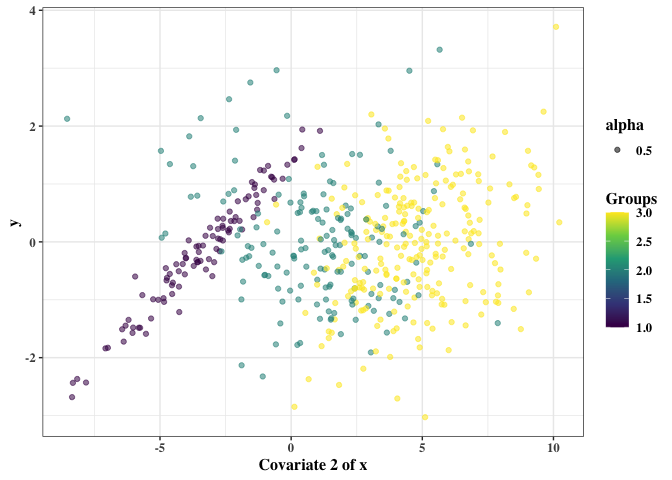
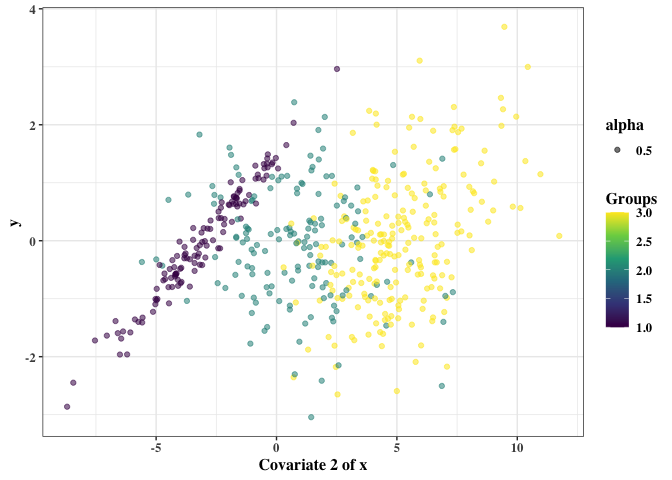
v4

diff --git a/README.md b/README.md
@@ -78,15 +78,15 @@ set.seed(2025)
 
 # ----Simulate data----
 n <- 500   # total samples
-p <- 3     # number of covariates
+p <- 6     # number of covariates
 G <- 3     # number of mixture components
 rho = 0.2  # correlation
 
 # ----True parameters for 3 clusters----
 betas <- matrix(c(
-  1,  2, -1,  0.5,   # component 1
-  5, -2,  1,  0,   # component 2
-  -3, 0,  2, 0      # component 3
+  1,  2, -1,  0.5, 0, 0, 0,  # component 1
+  5, -2,  1,  0, 0, 0, 0,  # component 2
+  -3, 0,  2, 0, 0, 0, 0     # component 3
 ), nrow = G, byrow = TRUE)
 pis <- c(0.4, 0.4, 0.2)
 sigmas <- c(3, 1.5, 1)/2
@@ -128,18 +128,21 @@ mod <- FGMRM(x = X, y = y, G = 6)
 #> 
 #>  selected model for g = 2 
 #> 
-#>  lambda = 2.4 || alpha = 1 || BIC = 2393.64 
+#>  lambda = 24.05 || alpha = 0.9 || BIC = 2469.78 
 #> 
 #>  Components     1      2
-#>  Pi           0.562  0.438
-#>  Sigma        2.921  0.648
+#>  Pi           0.576  0.424
+#>  Sigma        2.734  0.725
 #> 
 #>  Beta (Regression Parameters)
 #>   Components     1      2
-#>   Intercept   -0.449  5.075
-#>   Beta 1       1.193 -1.991
-#>   Beta 2       0.236  0.932
-#>   Beta 3       0.000  0.093
+#>   Intercept   -0.652  5.132
+#>   Beta 1       1.095 -1.907
+#>   Beta 2       0.321  0.936
+#>   Beta 3       0.297  0.000
+#>   Beta 4       0.061  0.000
+#>   Beta 5      -0.136  0.000
+#>   Beta 6      -0.007  0.000
 #> 
 #> 
 #> -- g = 3 --
@@ -147,18 +150,21 @@ mod <- FGMRM(x = X, y = y, G = 6)
 #> 
 #>  selected model for g = 3 
 #> 
-#>  lambda = 1.05 || alpha = 0.5 || BIC = 2176.36 
+#>  lambda = 23.28 || alpha = 1 || BIC = 2168.29 
 #> 
 #>  Components     1      2      3
-#>  Pi           0.186  0.367  0.447
-#>  Sigma        0.490  1.460  0.668
+#>  Pi           0.233  0.345  0.422
+#>  Sigma        0.470  1.418  0.721
 #> 
 #>  Beta (Regression Parameters)
 #>   Components     1      2      3
-#>   Intercept   -3.045  1.087  5.024
-#>   Beta 1       0.004  2.022 -2.043
-#>   Beta 2       2.019 -1.283  0.936
-#>   Beta 3       0.029  0.561  0.079
+#>   Intercept   -3.045  0.939  5.126
+#>   Beta 1       0.000  1.942 -1.927
+#>   Beta 2       1.868 -0.881  0.946
+#>   Beta 3       0.000  0.293  0.000
+#>   Beta 4       0.000  0.040  0.000
+#>   Beta 5       0.000  0.000  0.000
+#>   Beta 6       0.000  0.000  0.000
 #> 
 #> 
 #> -- g = 4 --
@@ -166,18 +172,21 @@ mod <- FGMRM(x = X, y = y, G = 6)
 #> 
 #>  selected model for g = 4 
 #> 
-#>  lambda = 8.58 || alpha = 1 || BIC = 2182.4 
+#>  lambda = 22.41 || alpha = 1 || BIC = 2183.8 
 #> 
 #>  Components     1      2      3      4
-#>  Pi           0.187  0.343  0.018  0.452
-#>  Sigma        0.495  1.397  0.466  0.683
+#>  Pi           0.234  0.324  0.017  0.424
+#>  Sigma        0.469  1.386  0.408  0.722
 #> 
 #>  Beta (Regression Parameters)
 #>   Components     1      2      3      4
-#>   Intercept   -3.059  1.046  1.230  5.023
-#>   Beta 1       0.000  2.091  0.000 -2.009
-#>   Beta 2       1.969 -1.284  0.000  0.914
-#>   Beta 3       0.000  0.526  0.000  0.047
+#>   Intercept   -3.041  0.918  1.278  5.126
+#>   Beta 1       0.000  2.022  0.000 -1.926
+#>   Beta 2       1.875 -0.897  0.000  0.947
+#>   Beta 3       0.000  0.289  0.000  0.000
+#>   Beta 4       0.000  0.044  0.000  0.000
+#>   Beta 5       0.000  0.000  0.000  0.000
+#>   Beta 6       0.000  0.000  0.000  0.000
 #> 
 #> 
 #> -- g = 5 --
@@ -185,18 +194,21 @@ mod <- FGMRM(x = X, y = y, G = 6)
 #> 
 #>  selected model for g = 5 
 #> 
-#>  lambda = 7.19 || alpha = 1 || BIC = 2196.65 
+#>  lambda = 21.71 || alpha = 0.9 || BIC = 2199.34 
 #> 
 #>  Components     1      2      3      4      5
-#>  Pi           0.187  0.343  0.020  0.008  0.441
-#>  Sigma        0.497  1.381  0.472  0.123  0.650
+#>  Pi           0.235  0.320  0.018  0.005  0.422
+#>  Sigma        0.471  1.383  0.403  0.010  0.717
 #> 
 #>  Beta (Regression Parameters)
 #>   Components     1      2      3      4      5
-#>   Intercept   -3.053  1.039  1.253  4.064  5.047
-#>   Beta 1       0.000  2.106  0.000  0.000 -2.017
-#>   Beta 2       1.980 -1.288  0.000  0.000  0.925
-#>   Beta 3       0.000  0.536  0.000  0.000  0.056
+#>   Intercept   -3.043  0.893  1.305  6.874  5.119
+#>   Beta 1       0.000  1.985  0.000  0.000 -1.921
+#>   Beta 2       1.868 -0.842  0.000  0.000  0.951
+#>   Beta 3       0.000  0.259  0.000  0.000  0.000
+#>   Beta 4       0.000  0.014  0.000  0.000  0.000
+#>   Beta 5       0.000  0.000  0.000  0.000  0.000
+#>   Beta 6       0.000  0.000  0.000  0.000  0.000
 #> 
 #> 
 #> -- g = 6 --
@@ -204,18 +216,21 @@ mod <- FGMRM(x = X, y = y, G = 6)
 #> 
 #>  selected model for g = 6 
 #> 
-#>  lambda = 6.41 || alpha = 1 || BIC = 2214.97 
+#>  lambda = 21.49 || alpha = 1 || BIC = 2219.29 
 #> 
 #>  Components     1      2      3      4      5      6
-#>  Pi           0.187  0.343  0.020  0.004  0.004  0.441
-#>  Sigma        0.497  1.380  0.472  0.121  0.125  0.649
+#>  Pi           0.235  0.317  0.018  0.000  0.008  0.422
+#>  Sigma        0.468  1.372  0.400  0.413  0.055  0.719
 #> 
 #>  Beta (Regression Parameters)
 #>   Components     1      2      3      4      5      6
-#>   Intercept   -3.051  1.040  1.252  4.059  4.069  5.047
-#>   Beta 1       0.000  2.111  0.000  0.000  0.000 -2.020
-#>   Beta 2       1.985 -1.293  0.000  0.000  0.000  0.927
-#>   Beta 3       0.000  0.541  0.000  0.000  0.000  0.059
+#>   Intercept   -3.041  0.872  1.318  1.257  6.915  5.117
+#>   Beta 1       0.000  1.982  0.000  0.000  0.000 -1.925
+#>   Beta 2       1.880 -0.826  0.000  0.000  0.000  0.950
+#>   Beta 3       0.000  0.244  0.000  0.000  0.000  0.000
+#>   Beta 4       0.000  0.058  0.000  0.000  0.000  0.000
+#>   Beta 5       0.000  0.000  0.000  0.000  0.000  0.000
+#>   Beta 6       0.000  0.000  0.000  0.000  0.000  0.000
 #> 
 #> -------------------------------------------------------------------------------- 
 #> 
@@ -223,18 +238,21 @@ mod <- FGMRM(x = X, y = y, G = 6)
 #> 
 #>  G = 3 
 #> 
-#>  lambda = 1.05 || alpha = 0.5 || log-likelihood = -1035.35 || BIC = 2176.36 || MSE = 0.69 
+#>  lambda = 23.28 || alpha = 1 || log-likelihood = -1037.54 || BIC = 2168.29 || MSE = 0.72 
 #> 
 #>  Components     1      2      3
-#>  Pi           0.186  0.367  0.447
-#>  Sigma        0.490  1.460  0.668
+#>  Pi           0.233  0.345  0.422
+#>  Sigma        0.470  1.418  0.721
 #> 
 #>  Beta (Regression Parameters)
 #>   Components     1      2      3
-#>   Intercept   -3.045  1.087  5.024
-#>   Beta 1       0.004  2.022 -2.043
-#>   Beta 2       2.019 -1.283  0.936
-#>   Beta 3       0.029  0.561  0.079
+#>   Intercept   -3.045  0.939  5.126
+#>   Beta 1       0.000  1.942 -1.927
+#>   Beta 2       1.868 -0.881  0.946
+#>   Beta 3       0.000  0.293  0.000
+#>   Beta 4       0.000  0.040  0.000
+#>   Beta 5       0.000  0.000  0.000
+#>   Beta 6       0.000  0.000  0.000
 #> 
 #> --------------------------------------------------------------------------------
 ```
@@ -308,17 +326,20 @@ summary(mod)
 #> 
 #>  G = 3 
 #> 
-#>  lambda = 1.05 || alpha = 0.5 || log-likelihood = -1035.35 || BIC = 2176.36 || MSE = 0.69 
+#>  lambda = 23.28 || alpha = 1 || log-likelihood = -1037.54 || BIC = 2168.29 || MSE = 0.72 
 #> 
 #>  Components     1      2      3
-#>  Pi           0.186  0.367  0.447
-#>  Clusters        99    160    241
-#>  Sigma        0.490  1.460  0.668
+#>  Pi           0.233  0.345  0.422
+#>  Clusters       125    150    225
+#>  Sigma        0.470  1.418  0.721
 #> 
 #>  Beta (Regression Parameters)
 #>   Components     1      2      3
-#>   Intercept   -3.045  1.087  5.024
-#>   Beta 1       0.004  2.022 -2.043
-#>   Beta 2       2.019 -1.283  0.936
-#>   Beta 3       0.029  0.561  0.079
+#>   Intercept   -3.045  0.939  5.126
+#>   Beta 1       0.000  1.942 -1.927
+#>   Beta 2       1.868 -0.881  0.946
+#>   Beta 3       0.000  0.293  0.000
+#>   Beta 4       0.000  0.040  0.000
+#>   Beta 5       0.000  0.000  0.000
+#>   Beta 6       0.000  0.000  0.000
 ```
